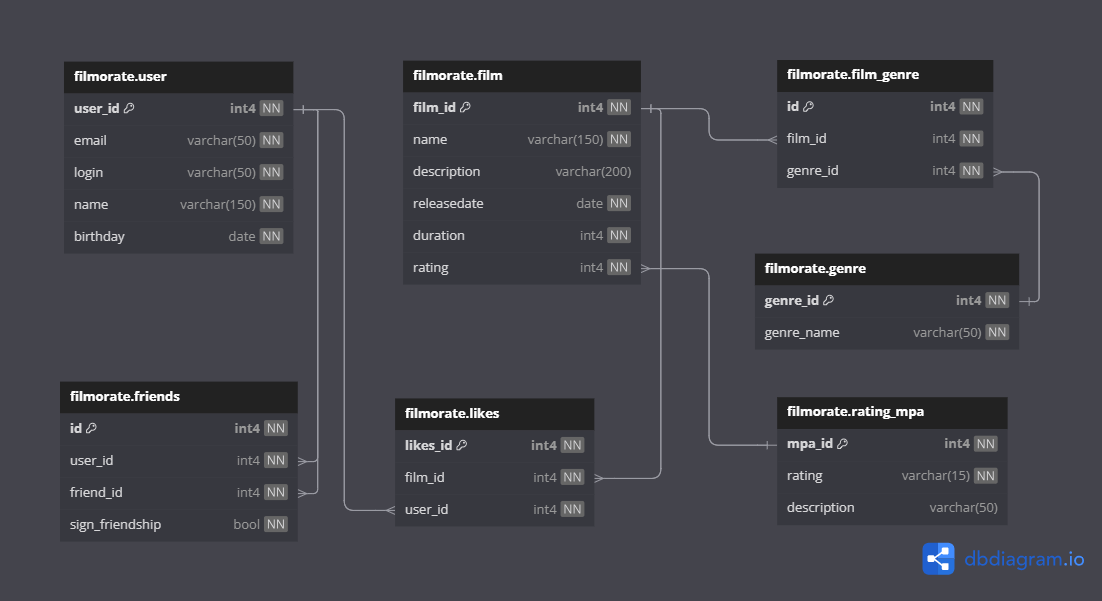
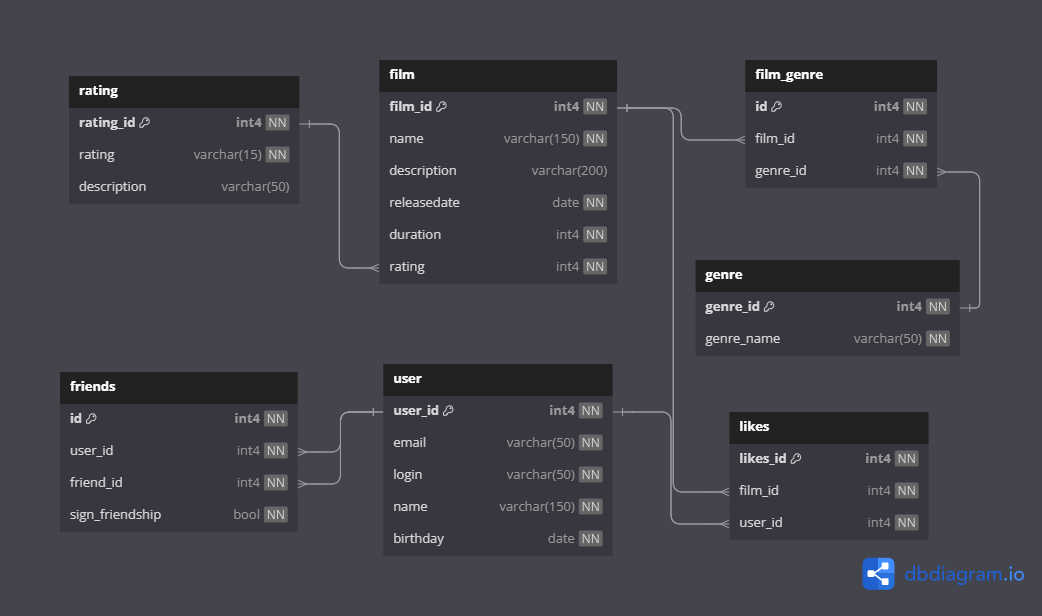
Исправить файл README.md

diff --git a/README.md b/README.md
@@ -1,6 +1,37 @@
 # java-filmorate
-Template repository for Filmorate project.
+### Бэкенд сервиса, который работает с фильмами и оценками пользователей
 
-## Описание базы данных
-
+## База данных
+### ER-диаграмма
 ![er_filmorate_db.png](src/main/resources/er_filmorate_db.png)
+
+### Текстовое описание базы данных
+| Таблица    | Наименование колонки | Тип данных   | Описание                              |
+|------------|----------------------|--------------|---------------------------------------|
+| user       | user_id              | integer      | Уникальный идентификатор пользователя |
+| user       | email                | varchar(50)  | Адрес электронной почты               |
+| user       | login                | varchar(50)  | Логин пользователя                    |
+| user       | name                 | varchar(150) | Имя пользователя                      |
+| user       | birthday             | date         | Дата рождения                         |
+| film       | film_id              | integer      | Уникальный идентификатор фильма       |
+| film       | name                 | varchar(150) | Название фильма                       |
+| film       | description          | varchar(200) | Описание фильма                       |
+| film       | releasedate          | date         | Дата релиза                           |
+| film       | duration             | integer      | Продолжительность фильма              |
+| film       | rating               | integer      | Рейтинг                               |
+| likes      | likes_id             | integer      | Уникальный идентификатор              |
+| likes      | film_id              | integer      | Идентификатор фильма                  |
+| likes      | user_id              | integer      | Идентификатор пользователя            |
+| friends    | id                   | integer      | Уникальный идентификатор              |
+| friends    | user_id              | integer      | Пользователь                          |
+| friends    | friend_id            | integer      | Друг                                  |
+| friends    | sign_friendship      | boolean      | Признак подтверждения дружбы          |
+| genre      | genre_id             | integer      | Идентификатор жанра                   |
+| genre      | genre_name           | varchar(50)  | Жанр                                  |
+| film_genre | id                   | integer      | Уникальный идентификатор              |
+| film_genre | film_id              | integer      | Фильм                                 |
+| film_genre | genre_id             | integer      | Жанр                                  |
+| rating     | rating_id            | integer      | Идентификатор рейтинга                |
+| rating     | rating               | varchar(15)  | Рейтинг                               |
+| rating     | description          | varchar(50)  | Описание                              |
+
